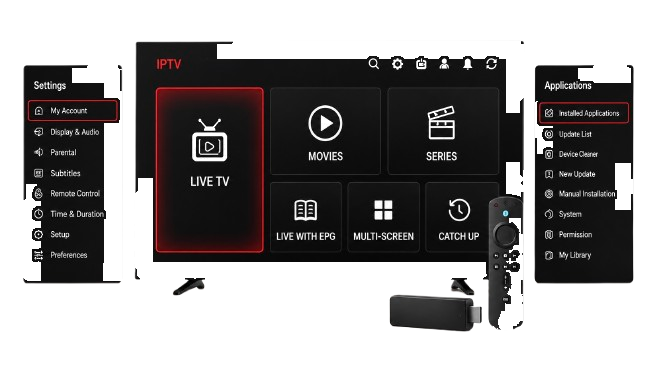
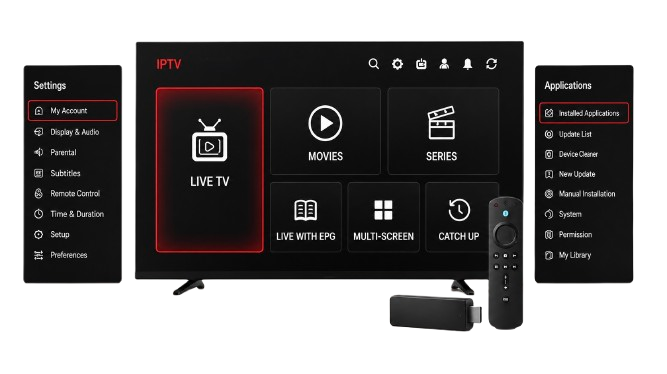
first commit

diff --git a/src/app/globals.css b/src/app/globals.css
@@ -250,9 +250,10 @@ h1,
 .site-atmosphere__glow--primary {
   width: min(920px, 140vw);
   height: min(720px, 95vh);
-  top: 6%;
+  /* Mobile: sit lower behind the homepage hero mockup (below the title) */
+  top: 26%;
   left: 50%;
-  transform: translateX(-42%);
+  transform: translateX(-50%);
   background: radial-gradient(
     ellipse at center,
     rgba(247, 24, 17, 0.28) 0%,
